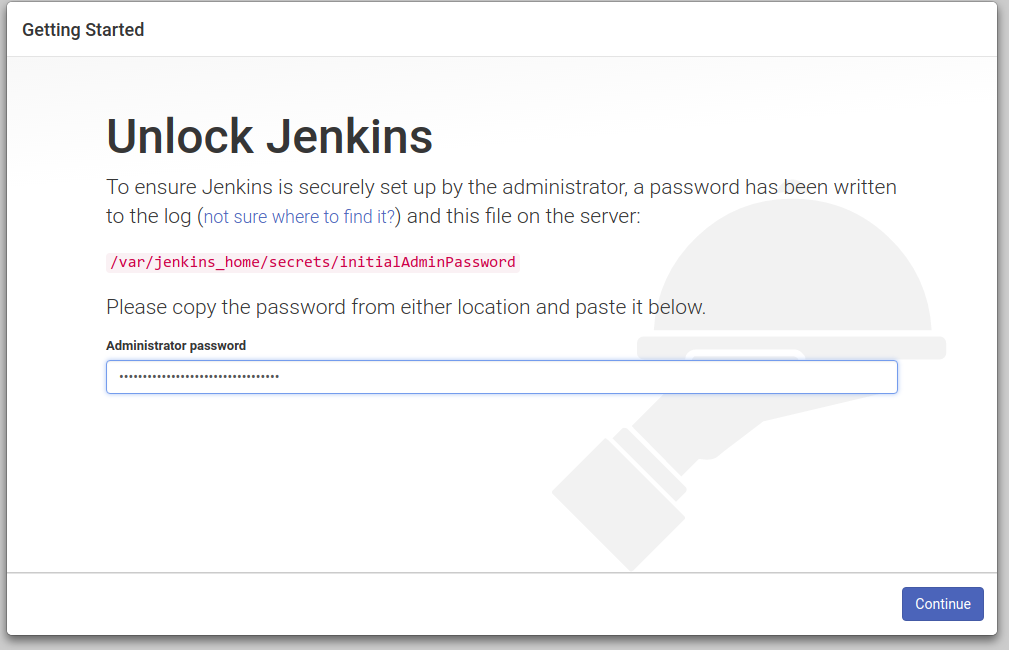
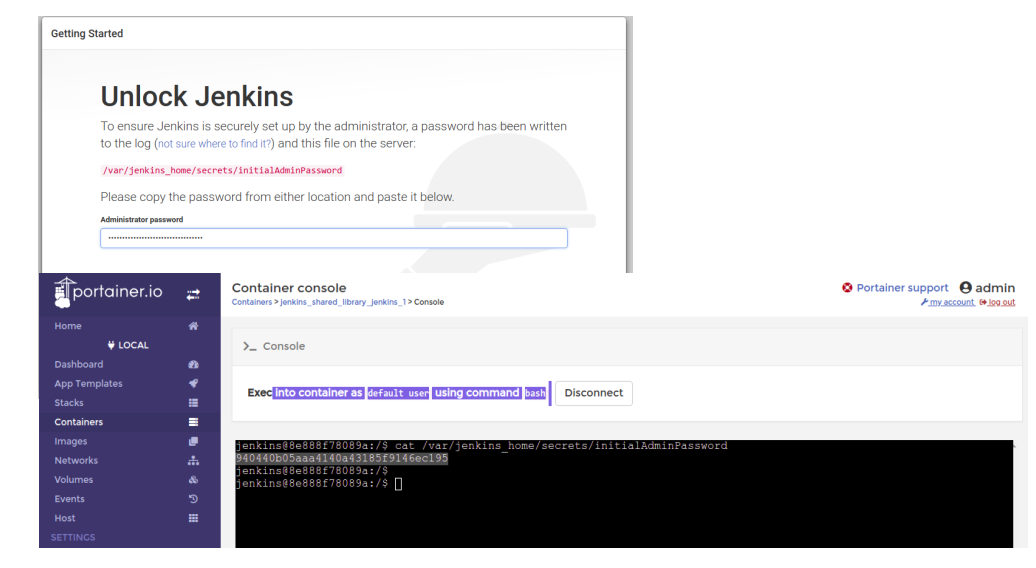
add conteudo

diff --git a/README.md b/README.md
@@ -1,4 +1,4 @@
-# Jenkins shared library: Tutorial `Hands On`
+# Jenkins shared library: Tutorial `Hands-On`
 
 Vamos começar esse tutorial de `Jenkins Shared Library` construindo a infra necessária. Para isso vamos utilizar imagens docker e o [`docker-compose`](https://docs.docker.com/compose/install/) para orquestrar os containers.
 
@@ -14,4 +14,34 @@ No diretório do projeto, suba os container utilizar o [`docker-compose`](https:
 
 ```bash
 $ docker-compose up
+```
+
+Como as imagens em execução, podemos acessar também o `jenkins` pela url `http://localhost:8080` e o `gitab` pela url `http://localhost`.
+
+Na configuração do jenkins, é necessário recuperar o token que está no diretório `/var/jenkins_home/secrets/initialAdminPassword` para seguir a instalação.
+
+Esse processo pode ser feito conectando diretamente no container como mostra a imagem a seguir.
+
+![img1](https://github.com/clodonil/jenkins_shared_library/imgs/img1.png)
+
+Também é possível listar os logs do container para obter esse token. Veja qual o processo que fica mais fácil para você.
+
+```bash 
+$ docker logs jenkins_shared_library_jenkins_1
+
+
+*************************************************************
+*************************************************************
+*************************************************************
+
+Jenkins initial setup is required. An admin user has been created and a password generated.
+Please use the following password to proceed to installation:
+
+ce83575d55d2418fafc98f86f1151cdb
+
+This may also be found at: /var/jenkins_home/secrets/initialAdminPassword
+
+*************************************************************
+*************************************************************
+*************************************************************
 ```
